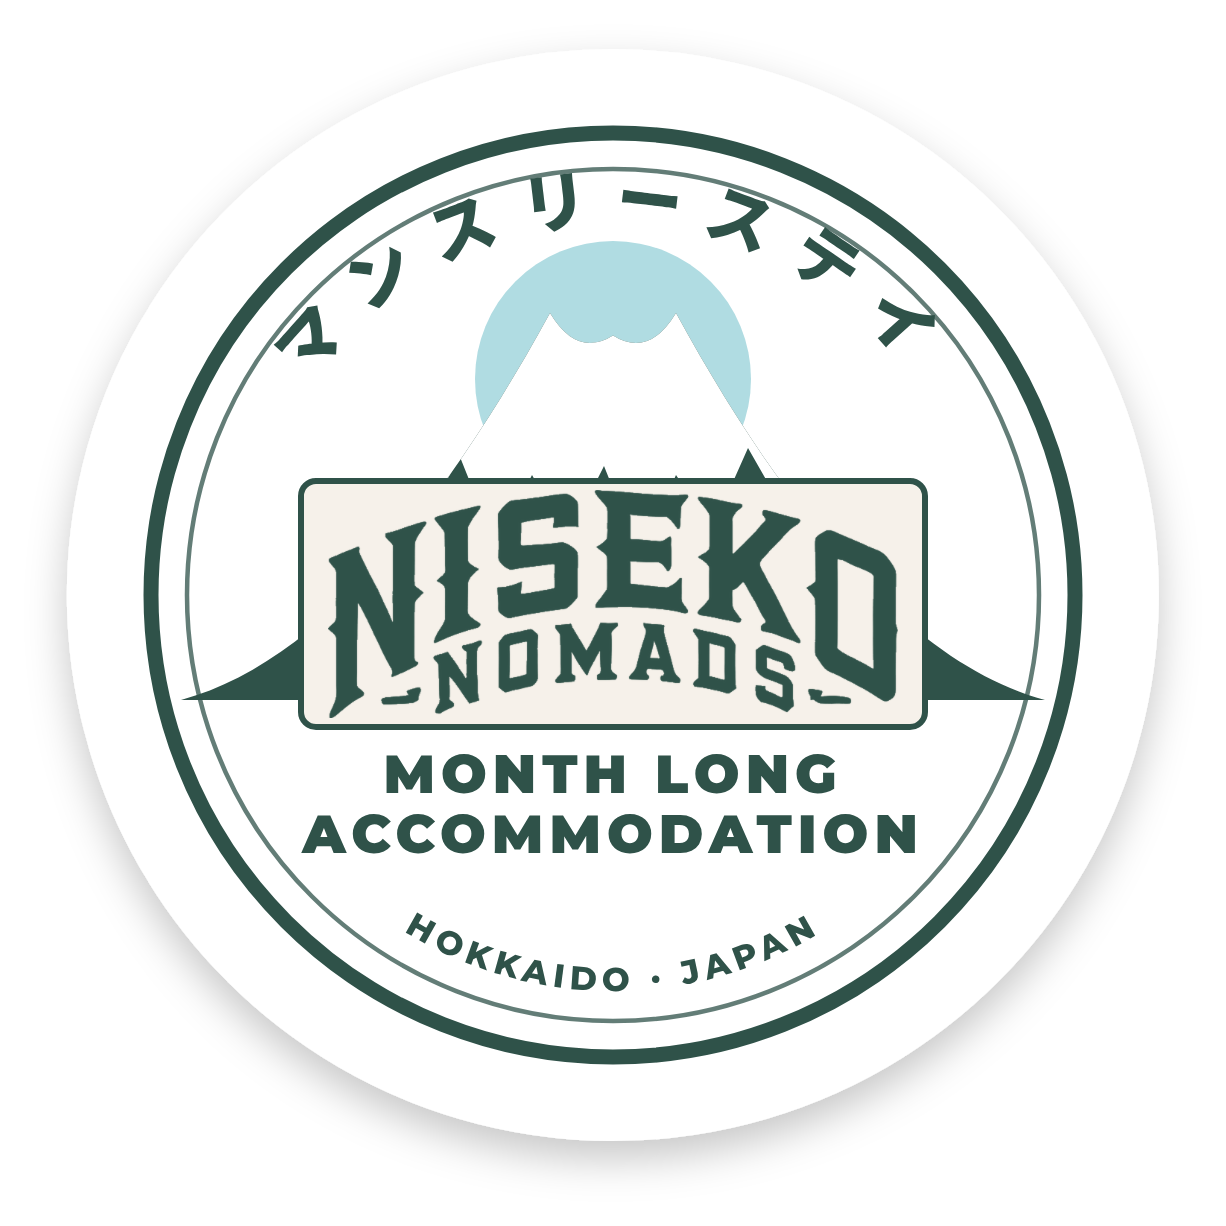
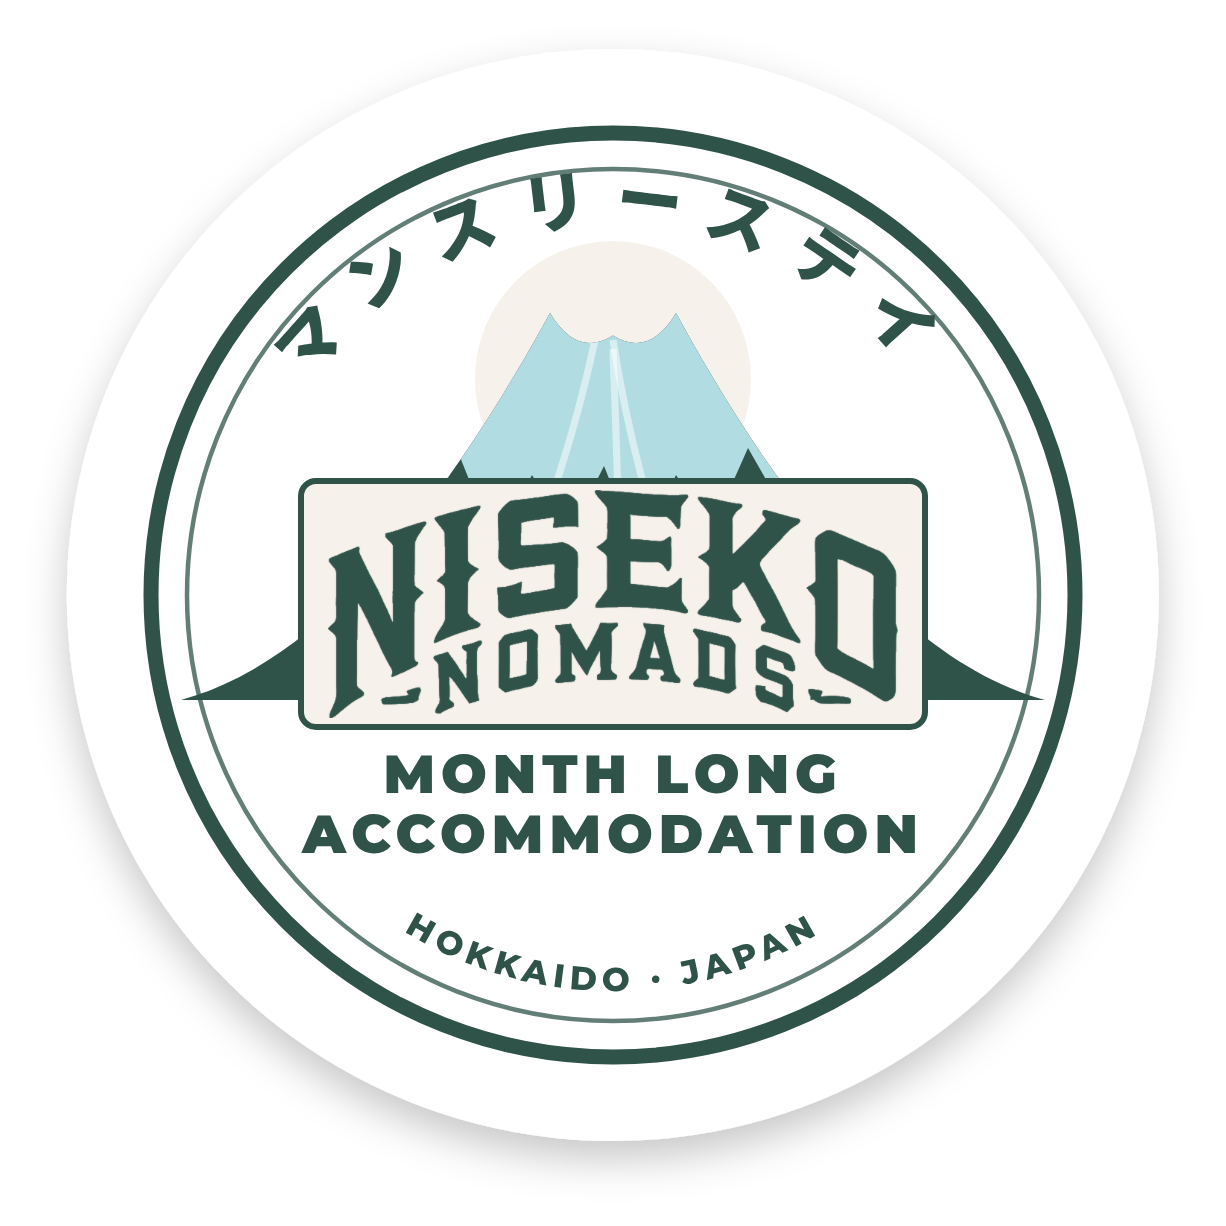
Rising-disc badges: cream disc, ice-blue snowcap

Changed region(s): [[0.3719, 0.186, 0.6509, 0.4029]]

diff --git a/index.html b/index.html
@@ -125,8 +125,8 @@ const STICKERS = [
   ['14-cone-die-cut-month-long','Cone die-cut · month long','Katakana version, MONTH LONG ACCOMMODATION'],
   ['15-badge-charcoal-cone','Badge · charcoal, sharp cone','Same badge on the flared Yotei cone, not the rounded one'],
   ['16-badge-charcoal-disc','Badge · charcoal, rising disc','Sharp cone with the ice disc rising behind it'],
-  ['17-badge-green-disc','Badge · green, rising disc','Ice disc behind a teal cone, cream snowcap'],
-  ['18-badge-white-disc','Badge · white, rising disc','White body, green ink, ice disc, white snowcap'],
+  ['17-badge-green-disc','Badge · green, rising disc','Cream disc behind a teal cone, ice-blue snowcap'],
+  ['18-badge-white-disc','Badge · white, rising disc','White body, green ink, cream disc, ice-blue snowcap'],
 ];
 const SHEETS = [
   ['stickers6','All nine together','The full set on one sheet'],
